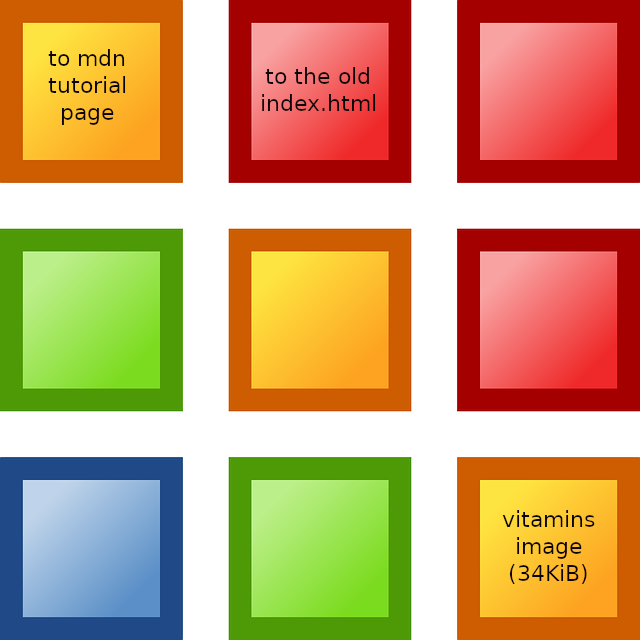
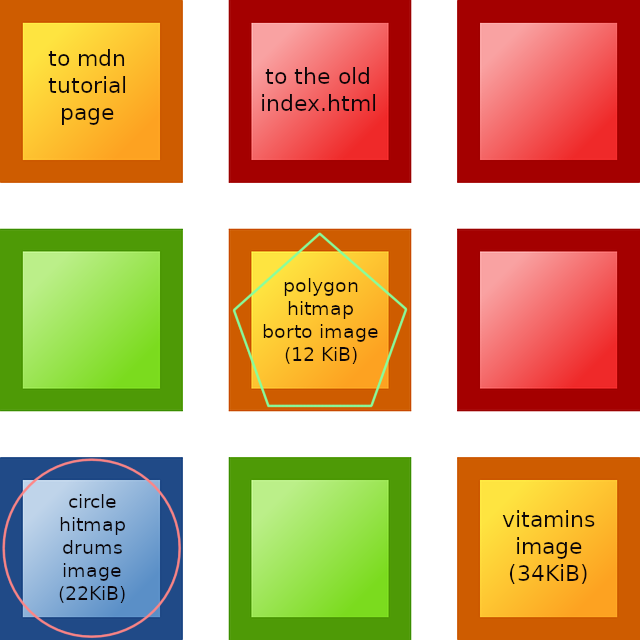
add @import practice

diff --git a/mdn/at-import-practice.html b/mdn/at-import-practice.html
@@ -1,0 +1,45 @@
+<!DOCTYPE html>
+<html lang="en">
+<head>
+	<meta charset="utf-8">
+	<title>CSS grid layout</title>
+	<meta name="viewport" content="width=device-width">
+	<link rel="stylesheet" href="at-import-1.css">
+</head>
+<body>
+	<h1>CSS grid layout</h1>
+	<h2>Example 1</h2>
+		<div class="container">
+			<p>Veggies es bonus vobis, proinde vos postulo essum magis kohlrabi welsh onion daikon amaranth tatsoi.</p>
+			<p>Gumbo beet greens corn soko endive gumbo gourd. Parsley shallot courgette tatsoi pea sprouts fava bean collard greens.</p>
+			<p>Nori grape silver beet broccoli kombu beet greens fava bean potato quandong celery. Bunya nuts
+			black-eyed pea prairie turnip leek lentil turnip greens parsnip. .</p>
+		</div>
+
+	<h2>Example 2</h2>
+		<div class="container-2">
+			<p>Veggies es bonus vobis, proinde vos postulo essum magis kohlrabi welsh onion daikon amaranth tatsoi.</p>
+			<p>Gumbo beet greens corn soko endive gumbo gourd. Parsley shallot courgette tatsoi pea sprouts fava bean collard greens.</p>
+			<p>Nori grape silver beet broccoli kombu beet greens fava bean potato quandong celery. Bunya nuts
+			black-eyed pea prairie turnip leek lentil turnip greens parsnip. .</p>
+		</div>
+
+	<h2>Example 3</h2>
+		<div class="container-3">
+			<p>Veggies es bonus vobis, proinde vos postulo essum magis kohlrabi welsh onion daikon amaranth tatsoi.</p>
+			<p>Gumbo beet greens corn soko endive gumbo gourd. Parsley shallot courgette tatsoi pea sprouts fava bean collard greens.</p>
+			<p>Nori grape silver beet broccoli kombu beet greens fava bean potato quandong celery. Bunya nuts
+			black-eyed pea prairie turnip leek lentil turnip greens parsnip. .</p>
+		</div>
+
+	<h2>Example 4</h2>
+		<div class="container-4">
+			<p>Veggies es bonus vobis, proinde vos postulo essum magis kohlrabi welsh onion daikon amaranth tatsoi.</p>
+			<p>Gumbo beet greens corn soko endive gumbo gourd. Parsley shallot courgette tatsoi pea sprouts fava bean collard greens.</p>
+			<p>Nori grape silver beet broccoli kombu beet greens fava bean potato quandong celery. Bunya nuts
+			black-eyed pea prairie turnip leek lentil turnip greens parsnip. .</p>
+			<p>Nori grape silver beet broccoli kombu beet greens fava bean potato quandong celery. Bunya nuts
+			black-eyed pea prairie turnip leek lentil turnip greens parsnip. .</p>
+		</div>
+</body>
+</html>

diff --git a/mdn/at-import-1.css b/mdn/at-import-1.css
@@ -1,0 +1,78 @@
+@import url(https://raw.githubusercontent.com/bortoslovo/bortoslovo/master/mdn/at-import-2.css);
+
+html {
+	background: black;
+	color: white;
+}
+body {
+	width: 1200px;
+	margin: 20px auto;
+	padding: 20px;
+	background: #000055;
+}
+.container {
+	display: grid;
+	grid-template-columns: 1fr 1fr;
+	grid-gap: 20px;
+	border: 2px solid lime;
+	border-radius: 20px;
+	padding: 10px;
+	width: 600px;
+	margin: 0 auto;
+}
+.container > * {
+	border: 2px solid wheat;
+	border-radius: 20px;
+	padding: 10px;
+}
+.container-2 {
+	display: grid;
+	grid-template-columns: 1fr 1fr 1fr;
+	grid-gap: 20px;
+	border: 2px solid lime;
+	border-radius: 20px;
+	padding: 10px;
+	width: 600px;
+	margin: 0 auto;
+}
+.container-2 > * {
+	border: 2px solid wheat;
+	border-radius: 20px;
+	padding: 10px;
+}
+h1, h2 {
+	text-align: center;
+	margin: 50px 0 10px 0;
+}
+.container-3 {
+	display: grid;
+	grid-template-columns: 1fr 1fr 1fr;
+	grid-gap: 20px;
+	border: 2px solid lime;
+	border-radius: 20px;
+	padding: 10px;
+	width: 600px;
+	margin: 0 auto;
+}
+.container-3 > * {
+	border: 2px solid wheat;
+	border-radius: 20px;
+	padding: 10px;
+	margin: 0;
+}
+.container-4 {
+	display: grid;
+	grid-template-columns: 1fr 1fr 1fr;
+	grid-gap: 20px;
+	border: 2px solid lime;
+	border-radius: 20px;
+	padding: 10px;
+	width: 600px;
+	margin: 0 auto;
+}
+.container-4 > * {
+	border: 2px solid wheat;
+	border-radius: 20px;
+	padding: 10px;
+	margin: auto;
+}

diff --git a/index.html b/index.html
@@ -65,6 +65,7 @@
 			<li><a href="mdn/introduction-to-html/03-html-text-fundamentals.html" title="Example">03 - HTML text fundamentals</a></li>
 			<li><a href="mdn/introduction-to-html/t03-index.html" title="Exercise">Index, pictures, projects, social</a></li>
 			<li><a href="mdn/video_subtitles.html" title="Video and subtitles">Videos and subtitles</a></li>
+			<li><a href="mdn/at-import-practice.html" title="@import practice">@import practice</a></li>
 		</ul>
 
 	</nav>
@@ -143,6 +144,10 @@
 		href="old-index.html" alt="old index" title="old index">
 		<area shape="rect" coords="459, 459, 640, 640"
 		href="images/vitamins-100w.png" alt="vitamins image" title="vitamins image">
+		<area shape="circle" coords="91, 548, 90"
+		href="images/drums-100w.png" alt="drums" title="drums">
+		<area shape="poly" coords="320, 235, 406, 309, 371, 406, 268, 406, 234, 311"
+		href="images/borto-2.jpg" alt="borto image" title="borto image">
 	</map>
 
 	<script src="scripts/main.js"></script>

diff --git a/mdn/at-import-2.css b/mdn/at-import-2.css
@@ -1,0 +1,11 @@
+
+html {
+	background: green;
+	color: red;
+}
+body {
+	width: 1200px;
+	margin: 20px auto;
+	padding: 20px;
+	background: purple;
+}
